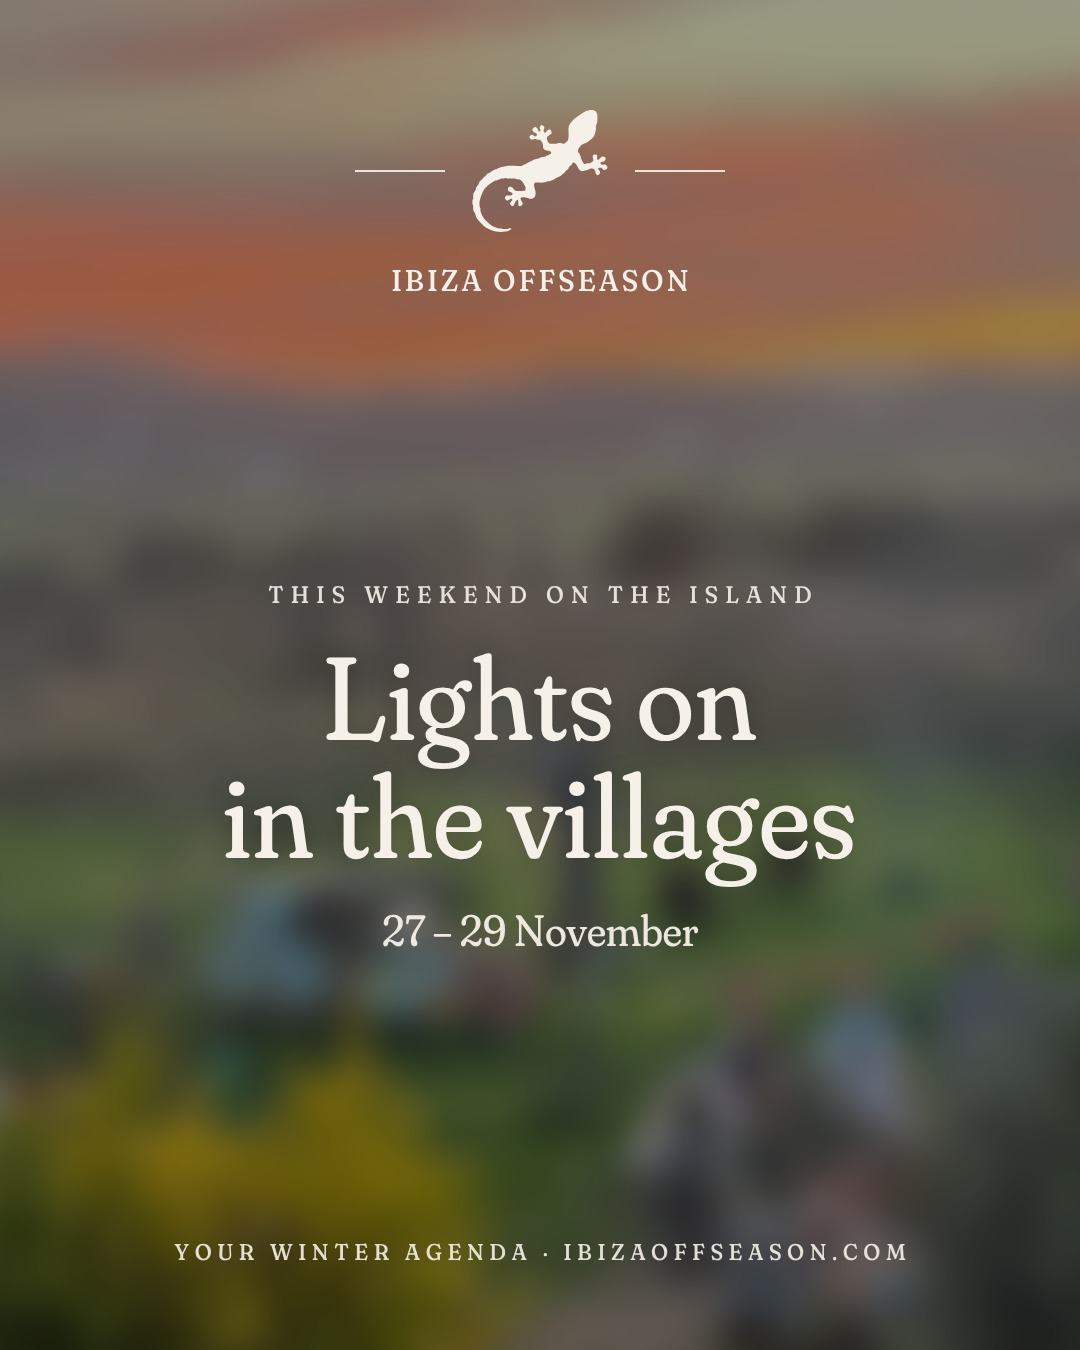
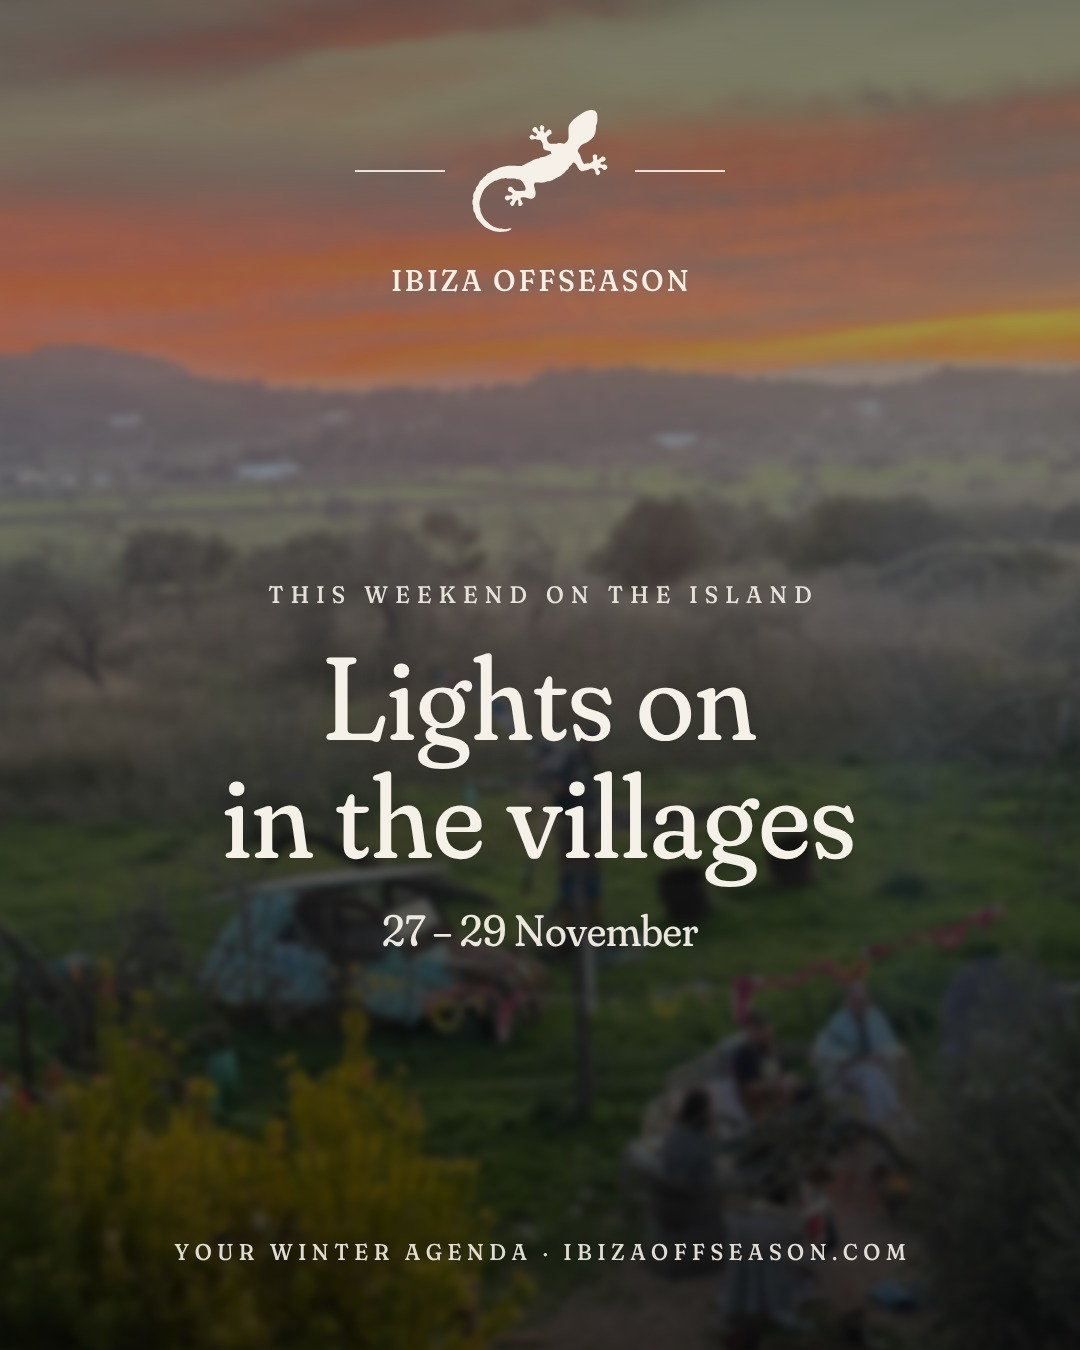
Post template: light blur (4px) + gradient scrim so the photo stays visible
Claude-Session: https://claude.ai/code/session_01RLkfgBqS7dYwe32Vdi7eR1

diff --git a/tools/post-template-v2.html b/tools/post-template-v2.html
@@ -5,8 +5,9 @@
 *{margin:0;box-sizing:border-box}
 :root{--bg:#1F3A4A;--fg:#EADFC6;--ov:.6}
 body{width:1080px;height:1350px;background:var(--bg);font-family:Fraunces,serif;font-variation-settings:'opsz' 144,'SOFT' 100,'WONK' 1;color:var(--fg);position:relative;overflow:hidden}
-.photo{position:absolute;inset:-60px;background:var(--photo) var(--pos,center)/cover;filter:blur(var(--blur,18px)) brightness(var(--ov)) saturate(1.05)}
-.in{position:absolute;inset:0;padding:96px 90px 84px;display:flex;flex-direction:column;justify-content:space-between;text-align:center}
+.photo{position:absolute;inset:-60px;z-index:0;background:var(--photo) var(--pos,center)/cover;filter:blur(var(--blur,4px)) brightness(var(--ov)) saturate(1.05)}
+.in::after{content:'';position:absolute;inset:0;z-index:-1;background:linear-gradient(180deg,rgba(0,0,0,.28) 0%,rgba(0,0,0,0) 22%,rgba(0,0,0,0) 40%,rgba(0,0,0,.42) 62%,rgba(0,0,0,.55) 100%)}
+.in{isolation:isolate;position:absolute;inset:0;z-index:1;padding:96px 90px 84px;display:flex;flex-direction:column;justify-content:space-between;text-align:center}
 .top{display:flex;flex-direction:column;align-items:center;gap:16px}
 .top svg{width:150px;height:150px;fill:var(--fg)}.em{display:flex;align-items:center;gap:20px}.em i{display:block;width:90px;height:1.5px;background:var(--fg);opacity:.9}
 .brand{font-size:30px;letter-spacing:.12em;padding-left:.12em;font-weight:500}

diff --git a/tools/render-post-v2.js b/tools/render-post-v2.js
@@ -9,7 +9,7 @@ const esc=s=>String(s??'').replace(/&/g,'&amp;').replace(/</g,'&lt;').replace(/\
 (async()=>{const specs=JSON.parse(fs.readFileSync(process.argv[2]));const outDir=process.argv[3]||'out';fs.mkdirSync(outDir,{recursive:true});
 const b=await chromium.launch();const p=await b.newPage({viewport:{width:1080,height:1350}});
 for(const s of specs){const [bg,fg]=themes[s.theme||(s.photo?'photo':'diepzee')];
- let css=`:root{--bg:${bg};--fg:${fg};--ov:${s.ov??.6};--blur:${s.blur??18}px;--pos:${s.pos||'center'};--photo:${s.photo?`url(${path.join(root,s.photo)})`:'none'}}`;
+ let css=`:root{--bg:${bg};--fg:${fg};--ov:${s.ov??.62};--blur:${s.blur??4}px;--pos:${s.pos||'center'};--photo:${s.photo?`url(${path.join(root,s.photo)})`:'none'}}`;
  if(!s.photo) css+='.photo{display:none}'; if(s.h1size) css+=`h1{font-size:${s.h1size}px}`; if(s.css) css+=s.css;
  let mid='';
  if(s.kind==='list'){mid=s.items.map((it,i)=>`${i?'<div class="rule"></div>':''}<div class="item"><div class="day">${esc(it.day)}</div><h2>${esc(it.h2)}</h2><div class="meta">${esc(it.meta)}</div></div>`).join('');}
